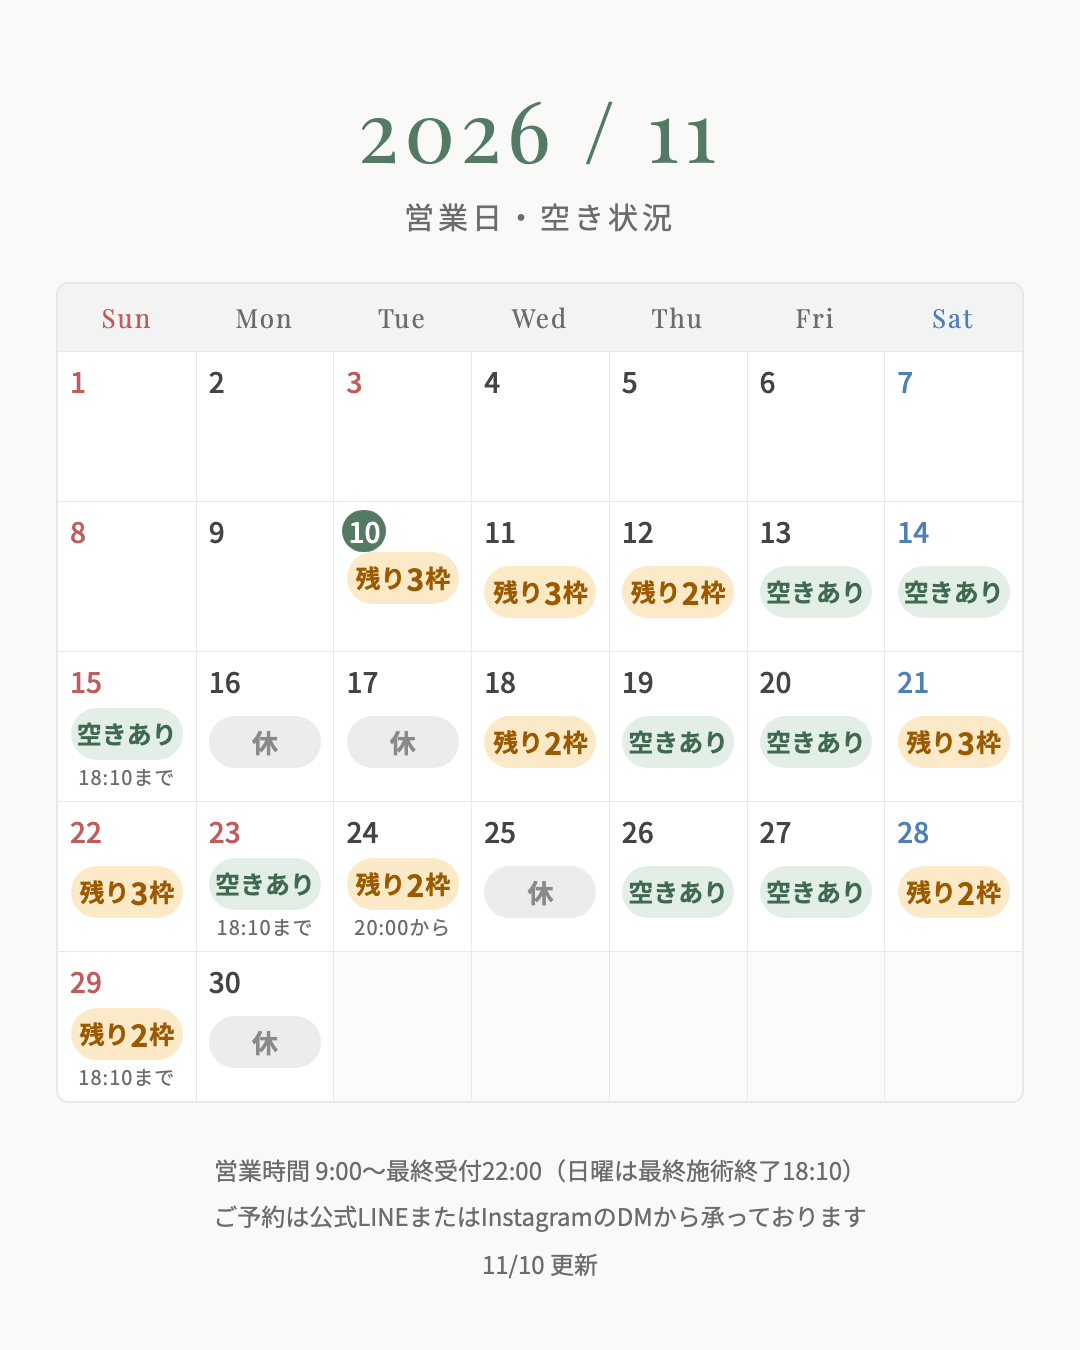
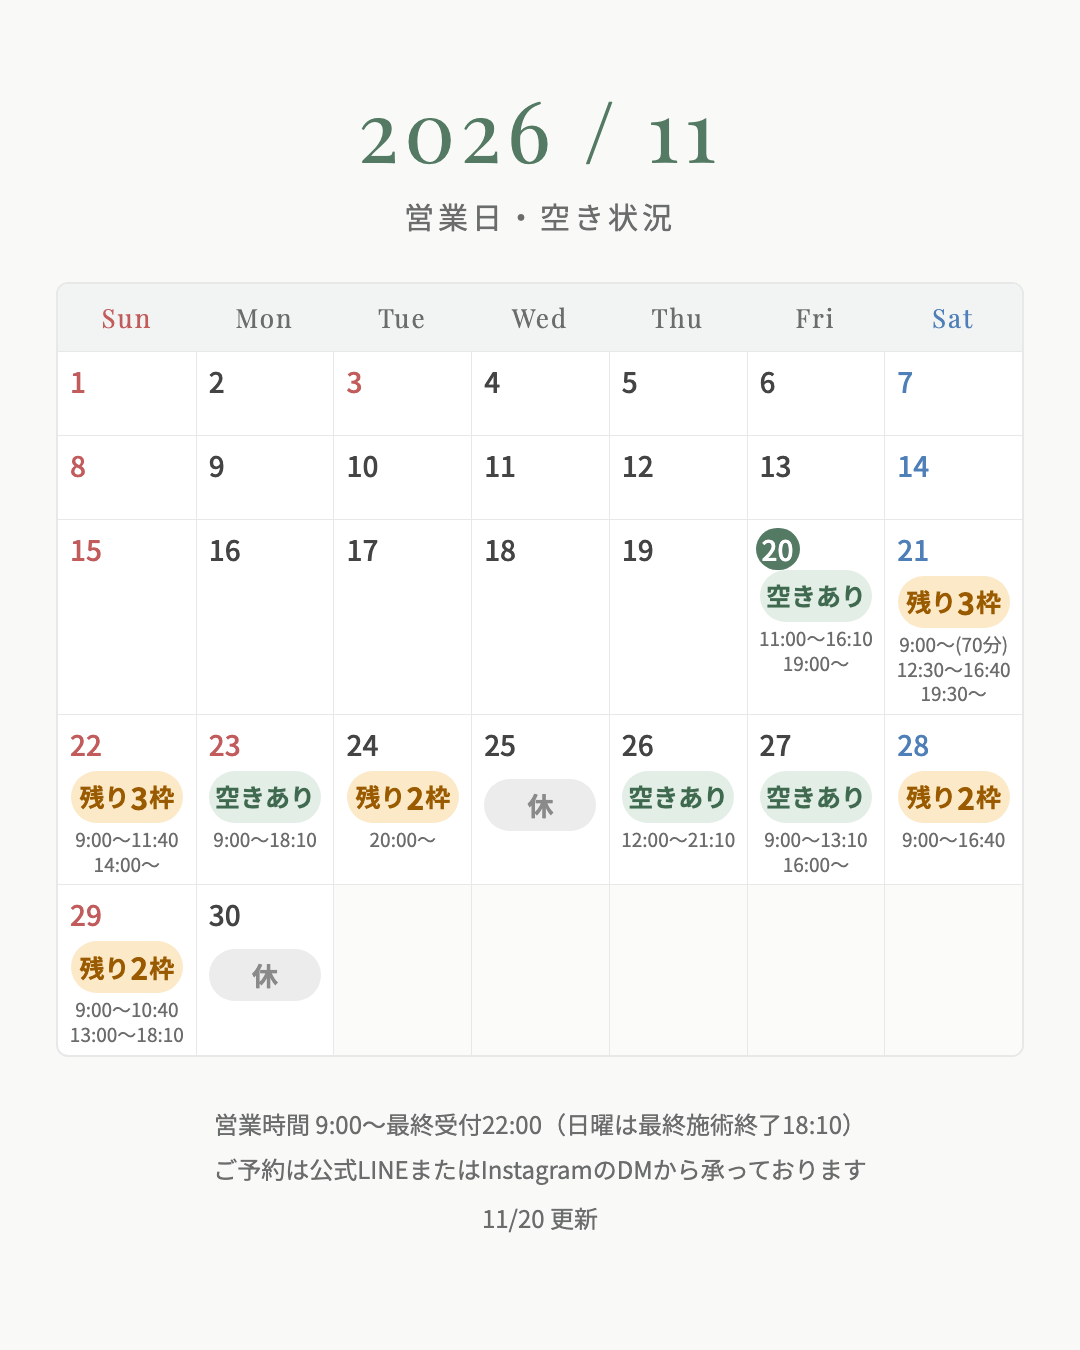
chore: 空き状況カレンダーに20〜29日の空き時間を追記し更新日を11/20に更新

diff --git a/src/calendarInfo.ts b/src/calendarInfo.ts
@@ -4,4 +4,4 @@
  */
 export const CALENDAR_IMAGE = '/images/calendar/current.png';
 /** 画像を更新した日 (YYYY-MM-DD) */
-export const CALENDAR_UPDATED = '2026-11-10';
+export const CALENDAR_UPDATED = '2026-11-20';

diff --git a/scripts/calendar/gen.py b/scripts/calendar/gen.py
@@ -1,6 +1,6 @@
 import json, datetime, calendar, html
 Y, M = 2026, 11
-TODAY = datetime.date(2026, 11, 10)
+TODAY = datetime.date(2026, 11, 20)
 TARGET = 5
 BLOCK = 90  # 70分施術+清掃etc: 次の開始まで90分(3スロット)
 HOLIDAYS = {datetime.date(2026,11,3), datetime.date(2026,11,23)}
@@ -18,7 +18,17 @@ def capacity(slots):
 OVERRIDES = {10:('few',3),11:('few',3),15:('open',None),5:('few',1),6:('few',1),8:('few',3),12:('few',2),18:('few',2),21:('few',3),22:('few',3),24:('few',2),25:('closed',None),28:('few',2),29:('few',2)}
 
 # セルに添える注記 (日 -> 文言)
-NOTES = {24: '20:00から', 15: '18:10まで', 6: '18:00〜20:40', 8: '18:10まで', 23: '18:10まで', 29: '18:10まで'}
+NOTES = {
+    20: '11:00〜16:10\n19:00〜',
+    21: '9:00〜(70分)\n12:30〜16:40\n19:30〜',
+    22: '9:00〜11:40\n14:00〜',
+    23: '9:00〜18:10',
+    24: '20:00〜',
+    26: '12:00〜21:10',
+    27: '9:00〜13:10\n16:00〜',
+    28: '9:00〜16:40',
+    29: '9:00〜10:40\n13:00〜18:10',
+}
 
 def status(d):
     if d < TODAY: return ('past', None)
@@ -37,9 +47,10 @@ weeks = cal.monthdatescalendar(Y, M)
 cells = []
 summary = {}
 for w in weeks:
+    pastrow = all(x.month != M or x < TODAY for x in w)
     for d in w:
         if d.month != M:
-            cells.append('<div class="cell blank"></div>'); continue
+            cells.append(f'<div class="cell blank{" pr" if pastrow else ""}"></div>'); continue
         st, rem = status(d)
         summary[d.isoformat()] = (st, rem)
         cls = ['cell']
@@ -48,12 +59,13 @@ for w in weeks:
         if d in HOLIDAYS: cls.append('sun')
         if d == TODAY: cls.append('today')
         if d.day in NOTES: cls.append('hasnote')
+        if pastrow: cls.append('pr')
         if st == 'open': badge = '<div class="b open">空きあり</div>'
         elif st == 'few': badge = f'<div class="b few">残り<b>{rem}</b>枠</div>'
         elif st == 'full': badge = '<div class="b full">満</div>'
         elif st == 'closed': badge = '<div class="b closed">休</div>'
         else: badge = ''
-        note = f'<div class="n{" long" if len(NOTES[d.day]) > 8 else ""}">{NOTES[d.day]}</div>' if d.day in NOTES and st != 'past' else ''
+        note = f'<div class="n">{NOTES[d.day].replace(chr(10), "<br>")}</div>' if d.day in NOTES and st != 'past' else ''
         cells.append(f'<div class="{" ".join(cls)}"><div class="d">{d.day}</div>{badge}{note}</div>')
 
 page = f'''<!doctype html><html lang="ja"><head><meta charset="utf-8">
@@ -66,7 +78,7 @@ h1{{font-family:'Playfair Display',serif;font-weight:400;font-size:84px;color:#5
 .grid{{display:grid;grid-template-columns:repeat(7,1fr);background:#fff;border:2px solid #E8E8E8;border-radius:12px;overflow:hidden}}
 .dow{{text-align:center;padding:16px 0;font-size:26px;color:#6A6D6B;background:#F1F4F2;font-family:'Playfair Display',serif;letter-spacing:2px}}
 .dow.sun{{color:#C25B5B}}.dow.sat{{color:#4F7FB8}}
-.cell{{height:150px;border-top:1px solid #E8E8E8;border-left:1px solid #E8E8E8;padding:8px 4px;text-align:center}}
+.cell{{min-height:150px;border-top:1px solid #E8E8E8;border-left:1px solid #E8E8E8;padding:8px 4px;text-align:center}}
 .cell:nth-child(7n+8){{border-left:none}}
 .cell.blank{{background:#FBFBFA}}
 .d{{height:42px;line-height:42px;font-size:28px;font-weight:500;text-align:left;padding-left:8px;color:#444}}
@@ -75,8 +87,8 @@ h1{{font-family:'Playfair Display',serif;font-weight:400;font-size:84px;color:#5
 .b{{margin:14px auto 0;font-weight:700;font-size:25px;line-height:1.1;border-radius:999px;height:52px;display:flex;align-items:center;justify-content:center;width:112px;clear:both;white-space:nowrap}}
 .today .b{{margin-top:14px}}
 .hasnote .b{{margin-top:6px}}
-.n{{margin-top:2px;font-size:20px;color:#6A6D6B;letter-spacing:1px;white-space:nowrap}}
-.n.long{{font-size:19px;letter-spacing:0}}
+.cell.pr{{min-height:0;height:84px}}
+.n{{margin-top:4px;font-size:19px;line-height:1.3;color:#6A6D6B;letter-spacing:0;white-space:nowrap}}
 .b.open{{background:#E3EEE7;color:#3F6A50}}
 .b.few{{background:#FCE9C8;color:#9A5B00}}
 .b.few b{{font-size:30px;margin:0 1px}}
